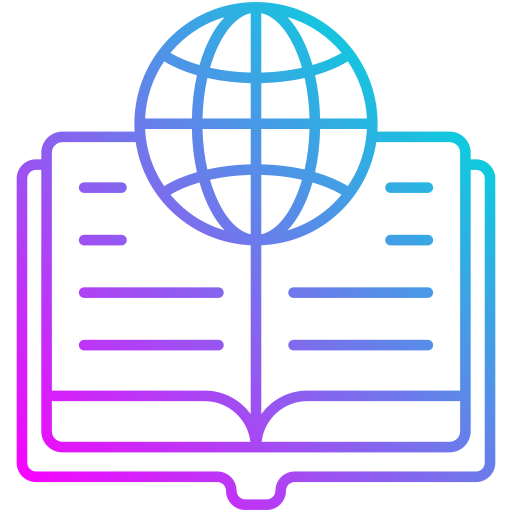
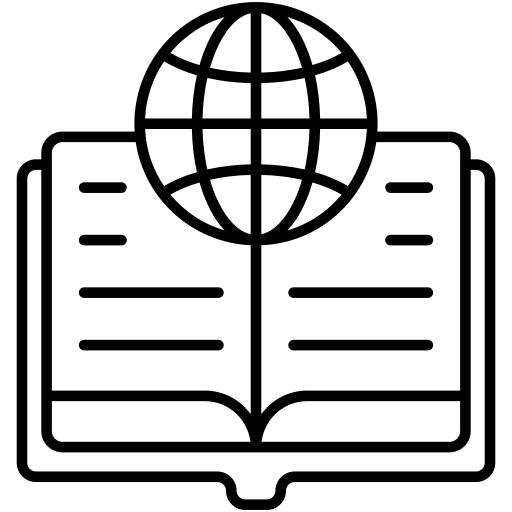
Quartz sync: Feb 23, 2025, 1:34 PM

diff --git a/content/Meta/scripts/embedReadable.js b/content/Meta/scripts/embedReadable.js
@@ -14,11 +14,6 @@ const embedReadable = async (
     frontmatter = `---
 tags:
 - resources/articles
-status:
-- not_consumed
-- no_moc
-- no_friend
-- no_action
 annotation-target: ${articleURL}
 ---`;
     body = `<iframe src="https://docs.google.com/gview?url=${articleURL}&embedded=true" style="width:100%; aspect-ratio:1" frameborder="0" allow-popups-to-escape-sandbox></iframe>`;
@@ -28,11 +23,6 @@ annotation-target: ${articleURL}
     frontmatter = `---
 tags:
 - resources/articles
-status:
-- not_consumed
-- no_moc
-- no_friend
-- no_action
 annotation-target: https://drive.google.com/uc?export=download&id=${
       articleURL.split("/file/d/")[1].split("/")[0]
     }
@@ -47,11 +37,6 @@ annotation-target-type: pdf
     frontmatter =`---
 tags:
 - resources/kosmiks
-status:
-- not_consumed
-- no_moc
-- no_friend
-- no_action
 ---`;
       ;
     body = `| [Open Original](${articleURL}) | [Open in App](file://C:/Users/Mohammed%20Hany/AppData/Roaming/Microsoft/Windows/Start%20Menu/Programs/Kosmik.lnk) |
@@ -64,11 +49,6 @@ status:
     frontmatter = `---
 tags:
 - resources/folders
-status:
-- not_consumed
-- no_moc
-- no_friend
-- no_action
 ---`;
     body = `\`\`\`embed
 title: "${articleTitle}"
@@ -83,11 +63,6 @@ url: "${articleURL}"
     frontmatter = `---
 tags:
 - resources/articles
-status:
-- not_consumed
-- no_moc
-- no_friend
-- no_action
 ---`;
     body = `\`\`\`embed
 title: "${articleTitle}"

diff --git a/content/Meta/scripts/embedHighlight.js b/content/Meta/scripts/embedHighlight.js
@@ -3,7 +3,7 @@ const embedHighlight = (url) => {
   
     // Check if the URL is a direct link to a PDF file
     if (url.match(".pdf")) {
-      body = `<iframe src="http://docs.google.com/gview?url=${url}&embedded=true" style="width:100%; aspect-ratio:1" frameborder="0" allow-popups-to-escape-sandbox></iframe>`;
+      body = `<iframe src="https://docs.google.com/gview?url=${url}&embedded=true" style="width:100%; aspect-ratio:1" frameborder="0" allow-popups-to-escape-sandbox></iframe>`;
     }
 
     else {

diff --git a/content/Meta/scripts/embedLocal.js b/content/Meta/scripts/embedLocal.js
@@ -6,11 +6,6 @@ const embedLocal = async (tp) => {
     let frontmatter = `---
 tags:
   - resources/articles
-status:
-  - no_action
-  - no_friend
-  - no_moc
-  - not_consumed
 annotation-target: ${name}.pdf
 ---
 `
